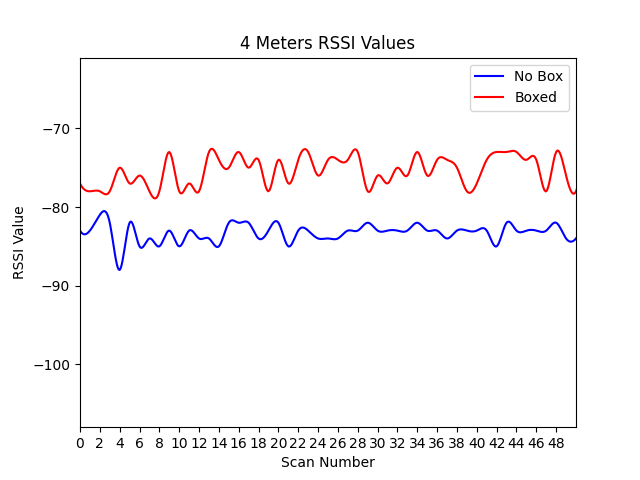
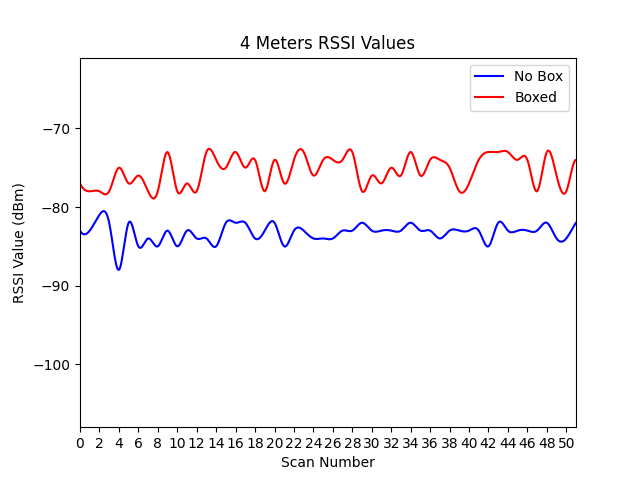
added regressions

diff --git a/Regression.py b/Regression.py
@@ -1,0 +1,57 @@
+import numpy as np
+from Graphs import getMean
+import matplotlib.pyplot as plt
+
+
+def createModel(xData, yData):
+    model = np.poly1d(np.polyfit(xData, yData, 3))
+    return model
+
+
+def meanModelBoxed():
+    # Get means for each distance (Boxed)
+    boxMean = []
+    for x in range(0, 11):
+        if x % 2 == 0:
+            boxMean.append(getMean('Box/box' + str(x) + '.csv'))
+
+    distances = [i * 2 for i in range(len(boxMean))]
+    return createModel(distances, boxMean)
+
+
+def meanModelNoBox():
+    noBoxMean = []
+
+    # Get Means for each distance (No box)
+    for x in range(0, 11):
+        if x % 2 == 0:
+            noBoxMean.append(getMean('NoBox/noBox' + str(x) + '.csv'))
+
+    distances = [i * 2 for i in range(len(noBoxMean))]
+    return createModel(distances, noBoxMean)
+
+
+def graphModel(model, model2, path, yLim, xLim, xLabel, yLabel, title):
+    x = np.arange(xLim)
+    y = model(x)
+    plt.plot(x, y, "-b", label="Boxed RPi")
+    plt.ylim(yLim[0], yLim[1])
+
+    x = np.arange(xLim)
+    y = model2(x)
+    plt.plot(x, y, "-r", label="No Box RPi")
+    plt.ylim(yLim[0], yLim[1])
+
+    plt.xlabel(xLabel)
+    plt.ylabel(yLabel)
+    plt.legend()
+    plt.title(title)
+    plt.savefig(path)
+    plt.close()
+
+
+if __name__ == '__main__':
+    model = meanModelBoxed()
+    model2 = meanModelNoBox()
+    graphModel(model, model2, 'RegressionGraphs/MeanRegression.png', [-100, -10], 11, 'Distance (Meters)', 'RSSI Value (dBm)',
+               'Mean RSSI Regression')

diff --git a/Graphs.py b/Graphs.py
@@ -70,12 +70,12 @@ def getRSSIGraphs():
             # Range Limit
             plt.ylim(min(noBoxRSSI) - 20, max(noBoxRSSI) + 20)
             # Get first 50 scans
-            plt.xlim(0, 50)
+            plt.xlim(0, 51)
             # X scale
-            plt.xticks(np.arange(0, 50, 2.0))
+            plt.xticks(np.arange(0, 51, 2.0))
             # Axes Labels
             plt.xlabel('Scan Number')
-            plt.ylabel('RSSI Value')
+            plt.ylabel('RSSI Value (dBm)')
             # Title
             plt.title(str(x) + " Meters RSSI Values")
             # Smoothen Graph
@@ -143,7 +143,7 @@ def getMeanGraph():
     plt.legend(loc="upper right")
     # Labels
     plt.xlabel('Distance (Meters)')
-    plt.ylabel('RSSI Value')
+    plt.ylabel('RSSI Value (dBm)')
 
     # Add Title
     plt.title("Mean RSSI Values")
@@ -191,4 +191,4 @@ def getSDGraph():
 
 
 if __name__ == '__main__':
-    getRSSIGraphs()
+    getMeanGraph()
